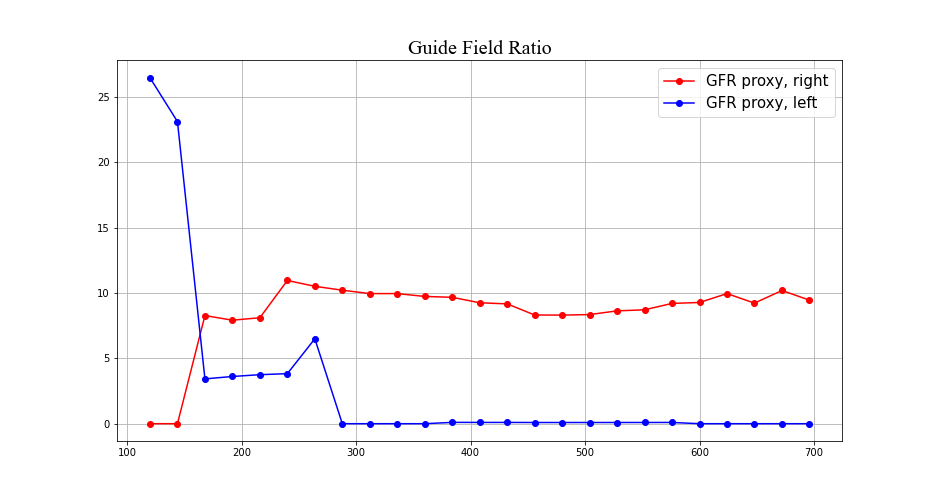
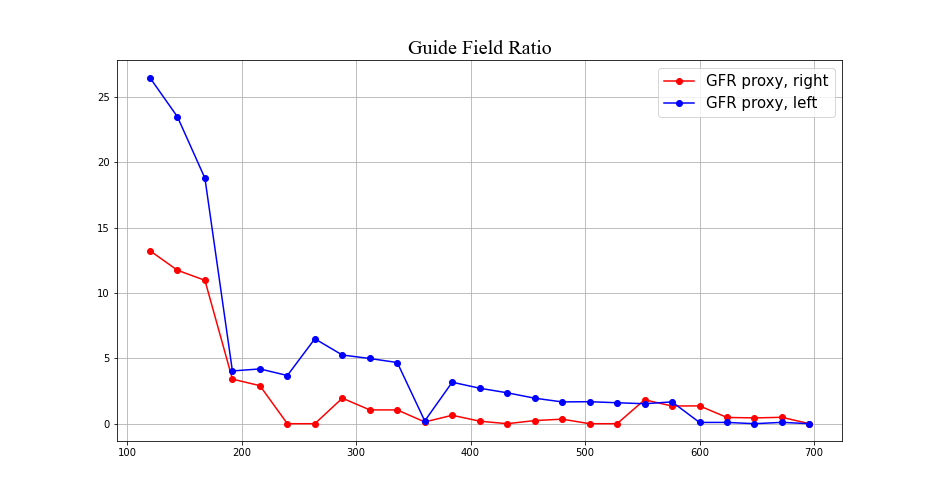
mid2 four-panel edits, 6/20

diff --git a/mid2_process.py b/mid2_process.py
@@ -56,9 +56,9 @@ pil_mask_c, ivs, dvs, hmik = fl_funcs.pil_gen(
 
 print("Separation values determination.")
 
-aia8_pos, aia8_neg = fl_funcs.mask_sep(aia_step8, hmi_dat)
+aia8_pos_step, aia8_neg_step = fl_funcs.mask_sep(aia_step8, hmi_dat)
 
-pos_rem0, neg_rem0 = fl_funcs.spur_removal_sep2(aia8_pos, aia8_neg, jlo=360,
+pos_rem0, neg_rem0 = fl_funcs.spur_removal_sep2(aia8_pos_step, aia8_neg_step, jlo=360,
                                                 klo=320, khi=400,
                                                 khi2=410)
 
@@ -123,7 +123,7 @@ startin, peakin, endin, times, s304, e304, filter_304, med304, std304, \
                                         flnum, start304, peak304, end304,
                                         times304, curves304)
 
-posrib, negrib, pos1600, neg1600 = fl_funcs.img_mask(aia8_pos, aia8_neg,
+posrib, negrib, pos1600, neg1600 = fl_funcs.img_mask(aia8_pos_step, aia8_neg_step,
                                                      aiadat, nt)
 
 print("Determining the regions of separation and elongation.")
@@ -244,7 +244,7 @@ posxhi = xlim1_pos
 
 # Isolate ribbons appropriately for shear analysis
 aia_neg_rem_shear, aia_pos_rem_shear = fl_funcs.\
-    shear_ribbon_isolation(aia8_neg, aia8_pos, med_x, med_y, negylow=negylow,
+    shear_ribbon_isolation(aia8_neg_step, aia8_pos_step, med_x, med_y, negylow=negylow,
                            negyhi=negyhi, posylow=posylow, posyhi=posyhi,
                            negxlow=negxlow, negxhi=negxhi, posxlow=posxlow,
                            posxhi=posxhi)
@@ -265,7 +265,7 @@ guide_right, guide_left = fl_funcs.guidefieldlen(pil_right_near_pos_shear,
                                                  pil_left_near_pos_shear,
                                                  pil_right_near_neg_shear,
                                                  pil_left_near_neg_shear,
-                                                 sortedpil)
+                                                 sortedpil, fl_funcs.curve_length)
 
 # Guide field ratio to the right and left edges of ribbons
 left_gfr, right_gfr = fl_funcs.gfrcalc(guide_left, guide_right,
@@ -291,13 +291,22 @@ raw_hxr_sum, cspec_hxr_sum, fermitimes = fl_funcs.process_fermi(daystr, mostr,
 
 indstrt_sep = 1
 indstrt_elon = 1
-gfr_trans = 10
+gfr_trans = 8
 
 E_pos, E_neg, E_rat, time_E = fl_funcs.E_field_det(conv_f, distpos_med,
                                                    distneg_med, timelab, 
                                                    hmi_dat, pos_rem, neg_rem, 
                                                    flnum, dt1600, times,
                                                    startind=gfr_trans)
+
+E_pos = np.append(E_pos,E_pos[-1])
+E_neg = np.append(E_neg,E_neg[-1])
+
+shear_ang_left, shear_ang_right = fl_funcs.shear_to_angle(times,flnum,dt1600, left_gfr, right_gfr)
+
+quartermaxtim = fl_funcs.quartermaxtime(gfr_trans, right_gfr, left_gfr, timelab, fl_funcs.find_nearest_ind, flag = 0)
+
+print(quartermaxtim)
 
 fl_funcs.plt_fourpanel(times, right_gfr, left_gfr, flnum, dt1600, time304,
                   filter_304, lens_pos_Mm, lens_neg_Mm, distpos_Mm, distneg_Mm,
@@ -311,3 +320,6 @@ fl_funcs.plt_fourpanel(times, right_gfr, left_gfr, flnum, dt1600, time304,
                   gfr_trans,  E_pos, E_neg, time_E, 
                   low_hxr=15500, high_hxr=16500,  period_flag = 0)
 
+file='mid2shear'
+
+np.savez(file,shear_ang_left,shear_ang_right,right_gfr,left_gfr)

diff --git a/fl_funcs.py b/fl_funcs.py
@@ -4246,8 +4246,8 @@ def plt_fourpanel(times, right_gfr, left_gfr, flnum, dt1600, time304,
                                        style='normal', size=20) 
     ax2.legend(prop=font, fontsize=20)    
     ax2_0 = ax2.twinx()
-    lns2 = ax2_0.plot(dt1600[gfr_trans:-1], E_pos, '--rx', label = '$E_{pos}$')
-    lns3 = ax2_0.plot(dt1600[gfr_trans:-1], E_neg, '--bx', label = '$E_{neg}$')
+    lns2 = ax2_0.plot(dt1600[gfr_trans:], E_pos, '--rx', label = '$E_{pos}$')
+    lns3 = ax2_0.plot(dt1600[gfr_trans:], E_neg, '--bx', label = '$E_{neg}$')
 
     ax2_0.set_xlim([dt1600[0], dt1600[-1]])
 
